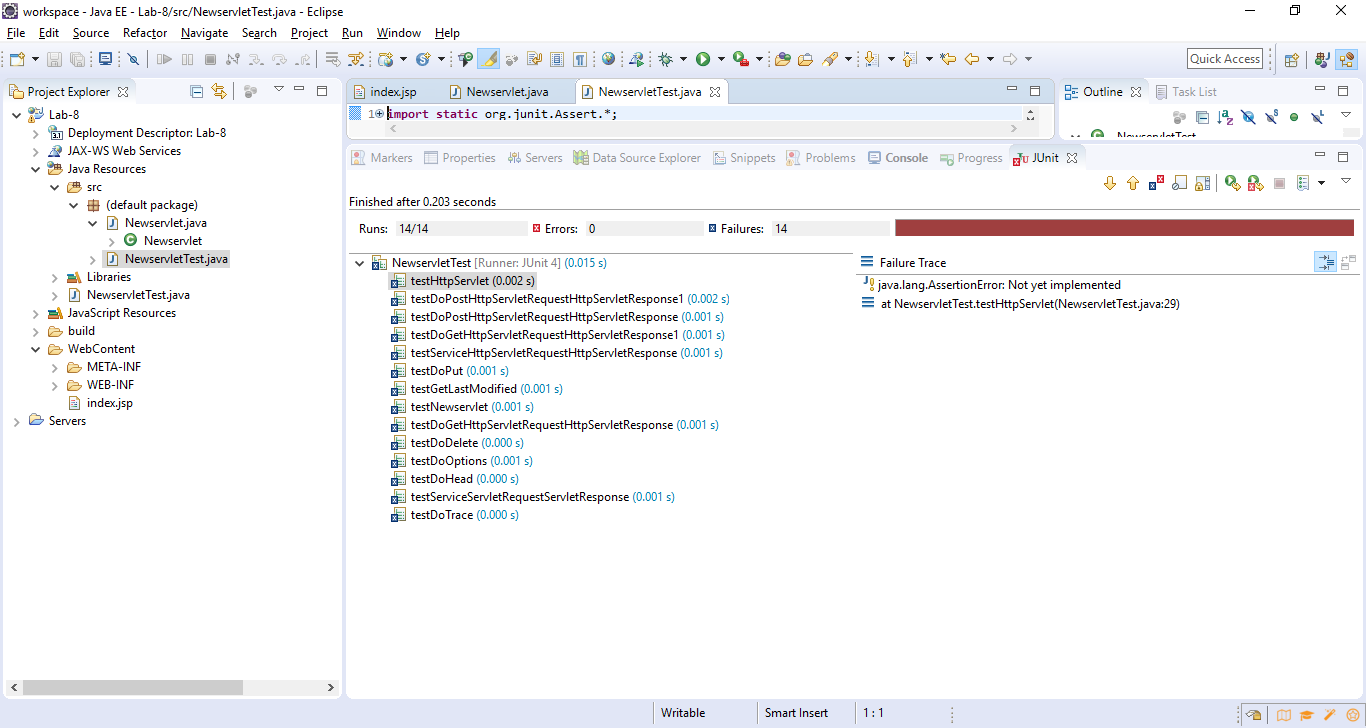
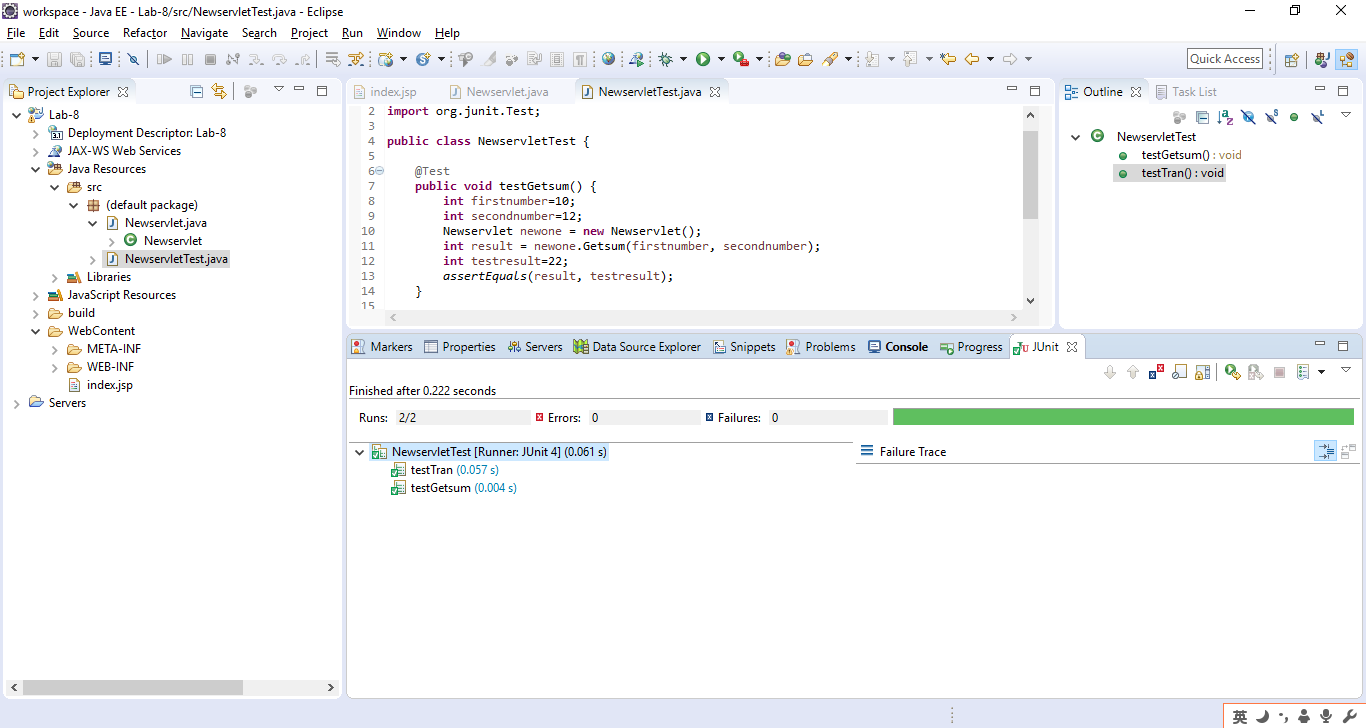
update

diff --git a/Source/Lab-8/src/NewservletTest.java b/Source/Lab-8/src/NewservletTest.java
@@ -1,77 +1,25 @@
-import static org.junit.Assert.*;
-
+import static org.junit.Assert.*; 
 import org.junit.Test;
 
 public class NewservletTest {
 
 	@Test
-	public void testNewservlet() {
-		fail("Not yet implemented");
+	public void testGetsum() {
+		int firstnumber=10;
+		int secondnumber=12;
+		Newservlet newone = new Newservlet();
+		int result = newone.Getsum(firstnumber, secondnumber);
+		int testresult=22;
+		assertEquals(result, testresult);
 	}
 
 	@Test
-	public void testDoGetHttpServletRequestHttpServletResponse() {
-		fail("Not yet implemented");
-	}
-
-	@Test
-	public void testDoPostHttpServletRequestHttpServletResponse() {
-		fail("Not yet implemented");
-	}
-
-	@Test
-	public void testServiceServletRequestServletResponse() {
-		fail("Not yet implemented");
-	}
-
-	@Test
-	public void testHttpServlet() {
-		fail("Not yet implemented");
-	}
-
-	@Test
-	public void testDoGetHttpServletRequestHttpServletResponse1() {
-		fail("Not yet implemented");
-	}
-
-	@Test
-	public void testGetLastModified() {
-		fail("Not yet implemented");
-	}
-
-	@Test
-	public void testDoHead() {
-		fail("Not yet implemented");
-	}
-
-	@Test
-	public void testDoPostHttpServletRequestHttpServletResponse1() {
-		fail("Not yet implemented");
-	}
-
-	@Test
-	public void testDoPut() {
-		fail("Not yet implemented");
-	}
-
-	@Test
-	public void testDoDelete() {
-		fail("Not yet implemented");
-	}
-
-	@Test
-	public void testDoOptions() {
-		fail("Not yet implemented");
-	}
-
-	@Test
-	public void testDoTrace() {
-		fail("Not yet implemented");
-	}
-
-	@Test
-	public void testServiceHttpServletRequestHttpServletResponse() {
-		fail("Not yet implemented");
+	public void testTran() {
+		String lowercase="wang";
+		Newservlet newone = new Newservlet();
+		String result=newone.Tran(lowercase);
+		String testresult="WANG";	
+		assertEquals(result, testresult);
 	}
 
 }

diff --git a/Source/Lab-8/src/Newservlet.java b/Source/Lab-8/src/Newservlet.java
@@ -1,5 +1,3 @@
-
-
 import java.io.IOException;
 import java.io.PrintWriter;
 
@@ -30,9 +28,9 @@ public class Newservlet extends HttpServlet {
 	protected void doGet(HttpServletRequest request, HttpServletResponse response) throws ServletException, IOException {
 		int firstnumber = Integer.parseInt(request.getParameter("firstnumber"));
 		int secondnumber = Integer.parseInt(request.getParameter("secondnumber"));
-		int sum = firstnumber +secondnumber;
+		int sum = Getsum(firstnumber, secondnumber);
 		String lowercase = request.getParameter("name");
-		String uppercase = lowercase.toUpperCase();
+		String uppercase = Tran(lowercase);
 		response.setContentType("text/html");
 		
 		PrintWriter out = response.getWriter();
@@ -50,6 +48,17 @@ public class Newservlet extends HttpServlet {
 	protected void doPost(HttpServletRequest request, HttpServletResponse response) throws ServletException, IOException {
 		// TODO Auto-generated method stub
 		doGet(request, response);
+		
+	}
+	
+	protected int Getsum(int firstnumber, int secondnumber)
+	{
+		return firstnumber+secondnumber;
+	}
+	
+	protected String Tran(String input)
+	{
+		return input.toUpperCase();
 	}
 
 }
